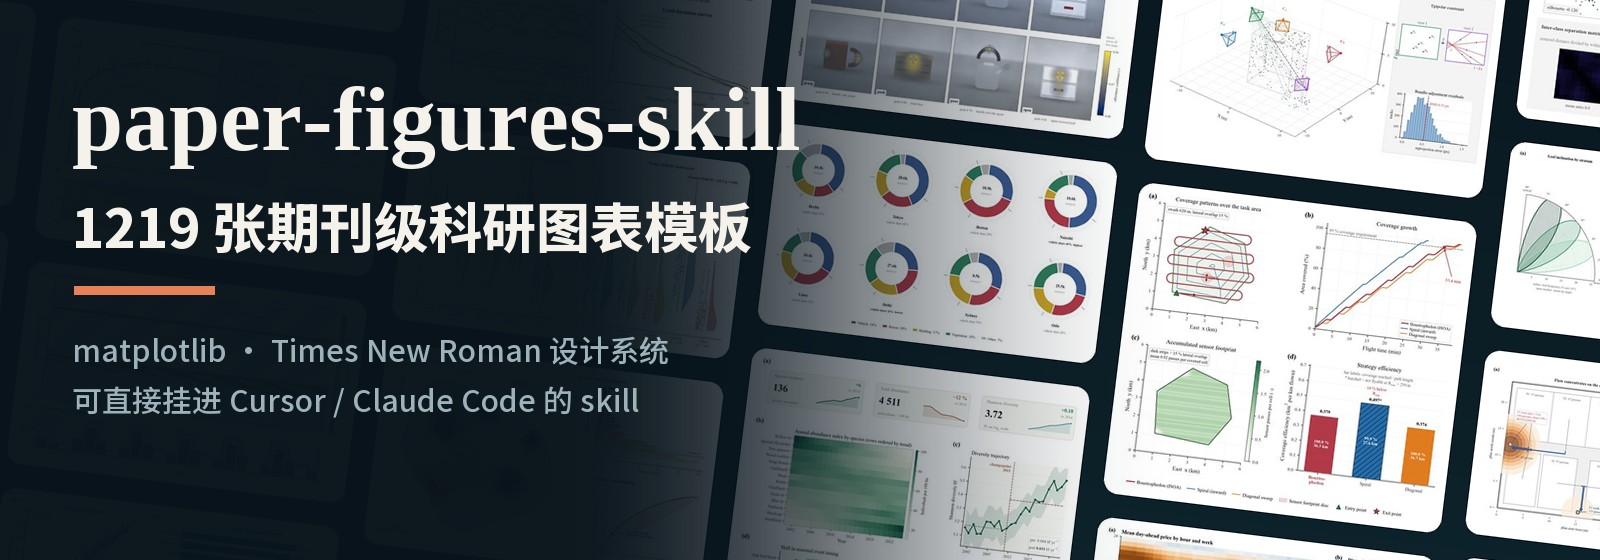
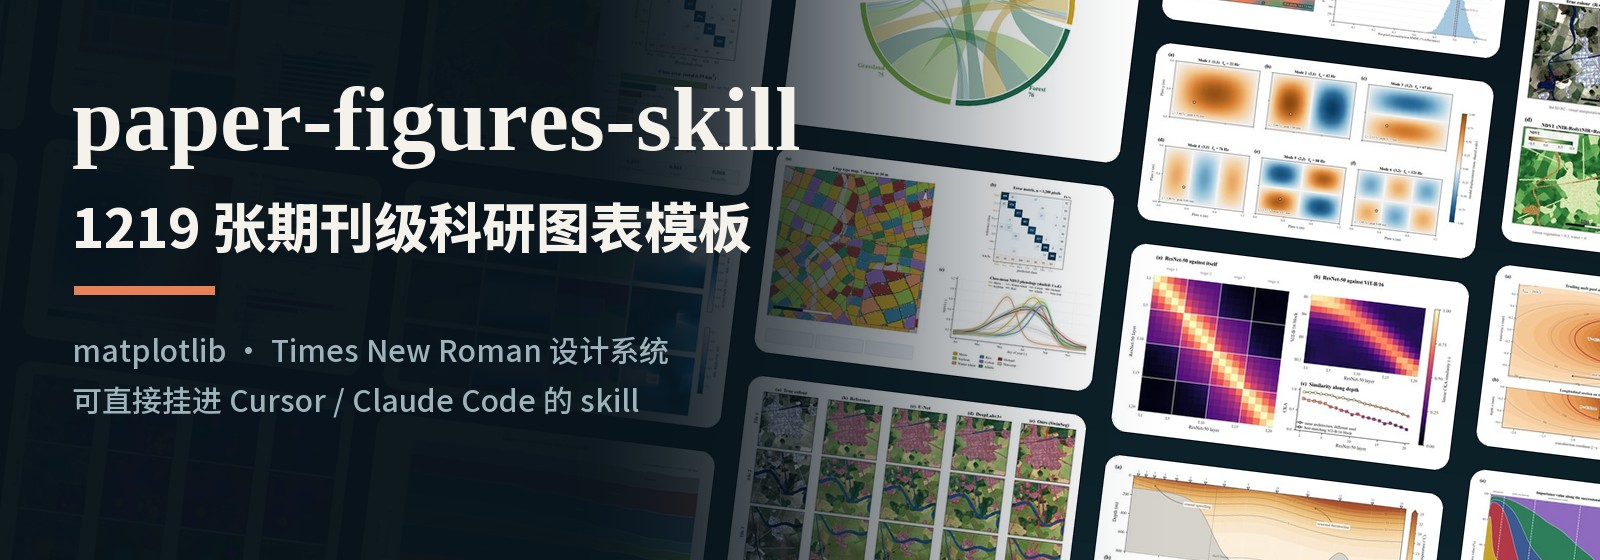
README: replace the thumbnail grid with five themed showcase boards

diff --git a/README.md b/README.md
@@ -20,6 +20,7 @@
 
 <p align="center">
   <a href="#图库一瞥">图库一瞥</a> ·
+  <a href="#这是什么">这是什么</a> ·
   <a href="#安装">安装</a> ·
   <a href="#先做自检">先做自检</a> ·
   <a href="#三种用法">三种用法</a> ·
@@ -29,6 +30,35 @@
 </p>
 
 ---
+
+## 图库一瞥
+
+<p align="center">
+  <img src=".github/assets/showcase_01_stats.jpg" alt="统计与通用图表：桑基图、和弦图、河流图、云雨图、矩形树图" width="100%">
+</p>
+
+<p align="center">
+  <img src=".github/assets/showcase_02_earth.jpg" alt="地理、遥感与环境：产量空间分布、波段合成、洋流、臭氧等值线、作物制图" width="100%">
+</p>
+
+<p align="center">
+  <img src=".github/assets/showcase_03_life.jpg" alt="医学、生命与生态：病理全片、脑功能连接、睡眠谱图、脑刺激治疗窗、物种演替" width="100%">
+</p>
+
+<p align="center">
+  <img src=".github/assets/showcase_04_phys.jpg" alt="物理、材料与工程：EBSD 晶粒取向、熔池温度场、基准曲面、硬度分布、人工势场" width="100%">
+</p>
+
+<p align="center">
+  <img src=".github/assets/showcase_05_ai.jpg" alt="人工智能与世界模型：新视角合成、光流误差图、损失地形、风格迁移、语谱图" width="100%">
+</p>
+
+<p align="center">
+  <sub>以上 25 张都是本库脚本直接渲染的原图，每张下面标了对应的脚本名。其余 1194 张的缩略图在
+  <a href=".cursor/skills/scientific-figures/reference/thumbs/"><code>reference/thumbs/</code></a>，
+  按方向分组的目录在
+  <a href=".cursor/skills/scientific-figures/catalog/INDEX.md"><code>catalog/INDEX.md</code></a>。</sub>
+</p>
 
 ## 这是什么
 
@@ -43,60 +73,6 @@
 
 > 图里画的都是程序生成的示例数据，只用来演示版式和配色，不能直接当结果图用。
 > 哪些脚本容易换成自己的数据、哪些不容易，见[已知边界](#已知边界)第 3 条。
-
-## 图库一瞥
-
-<table>
-  <tr>
-    <td align="center" width="33%">
-      <img src=".cursor/skills/scientific-figures/reference/thumbs/22_sankey.jpg" alt="桑基图"><br>
-      <sub>桑基图 · <code>fig_sankey.py</code></sub>
-    </td>
-    <td align="center" width="33%">
-      <img src=".cursor/skills/scientific-figures/reference/thumbs/12_raincloud.jpg" alt="雨云图"><br>
-      <sub>雨云图 · <code>fig_raincloud.py</code></sub>
-    </td>
-    <td align="center" width="33%">
-      <img src=".cursor/skills/scientific-figures/reference/thumbs/57_hexgrid_map.jpg" alt="六边形网格地图"><br>
-      <sub>六边形网格地图 · <code>fig_hexgrid_map.py</code></sub>
-    </td>
-  </tr>
-  <tr>
-    <td align="center">
-      <img src=".cursor/skills/scientific-figures/reference/thumbs/82_climate_stripes.jpg" alt="气候条纹图"><br>
-      <sub>气候条纹图 · <code>fig_climate_stripes.py</code></sub>
-    </td>
-    <td align="center">
-      <img src=".cursor/skills/scientific-figures/reference/thumbs/216_ocean_currents.jpg" alt="洋流流线图"><br>
-      <sub>洋流流线图 · <code>fig_ocean_currents.py</code></sub>
-    </td>
-    <td align="center">
-      <img src=".cursor/skills/scientific-figures/reference/thumbs/65_confusion_grid.jpg" alt="混淆矩阵组图"><br>
-      <sub>混淆矩阵组图 · <code>fig_confusion_grid.py</code></sub>
-    </td>
-  </tr>
-  <tr>
-    <td align="center">
-      <img src=".cursor/skills/scientific-figures/reference/thumbs/40_lollipop.jpg" alt="棒棒糖图"><br>
-      <sub>棒棒糖图 · <code>fig_lollipop.py</code></sub>
-    </td>
-    <td align="center">
-      <img src=".cursor/skills/scientific-figures/reference/thumbs/196_price_heatmap.jpg" alt="价格热力图"><br>
-      <sub>价格热力图 · <code>fig_price_heatmap.py</code></sub>
-    </td>
-    <td align="center">
-      <img src=".cursor/skills/scientific-figures/reference/thumbs/206_time_space_diagram.jpg" alt="时空图"><br>
-      <sub>时空图 · <code>fig_time_space_diagram.py</code></sub>
-    </td>
-  </tr>
-</table>
-
-<p align="center">
-  <sub>以上 9 张只是样例。全部缩略图在
-  <a href=".cursor/skills/scientific-figures/reference/thumbs/"><code>reference/thumbs/</code></a>，
-  按方向分组的目录在
-  <a href=".cursor/skills/scientific-figures/catalog/INDEX.md"><code>catalog/INDEX.md</code></a>。</sub>
-</p>
 
 ## 安装
 
